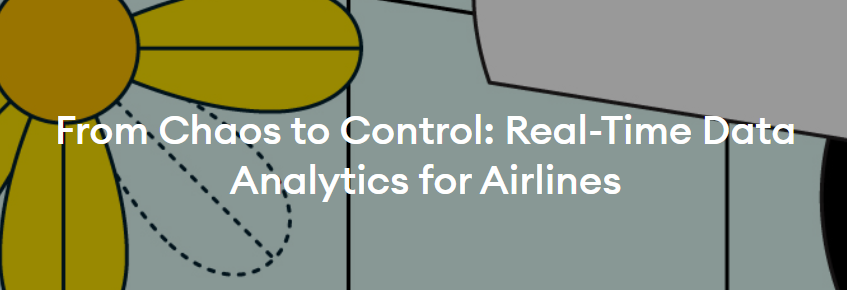
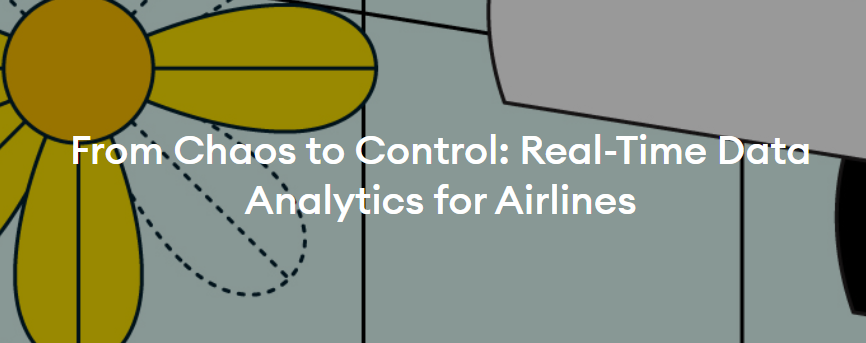
New approach for visuals in benefits section

diff --git a/airplanedashboard/components/FlightLayout.js b/airplanedashboard/components/FlightLayout.js
@@ -660,18 +660,10 @@ const FlightLayout = ({ children }) => {
               
                 {/* Right: Video + Blog Cover */}  
                 <div className={styles.rightContent}>  
-                  <div className={styles.multimediaContainer}>  
-                    {/* YouTube Video */}  
-                    <iframe  
-                      className={styles.youtubeVideo}  
-                      src="https://www.youtube.com/embed/RgreCE1eMkU"  
-                      title="YouTube video"  
-                      allow="accelerometer; autoplay; clipboard-write; encrypted-media; gyroscope; picture-in-picture"  
-                      allowFullScreen  
-                    ></iframe>  
-              
+                  <div className={styles.multimediaContainer}> 
+
                     {/* Blog Cover (Clickable)   */}
-                    
+
                     <div className={styles.blogCoverContainer}>  
                       <a  
                         href="https://www.mongodb.com/company/blog/innovationfrom-chaos-to-control-real-time-data-analytics-for-airlines"  
@@ -687,6 +679,16 @@ const FlightLayout = ({ children }) => {
                         />  
                       </a>  
                     </div>  
+
+                    {/* YouTube Video */}  
+                    <iframe  
+                      className={styles.youtubeVideo}  
+                      src="https://www.youtube.com/embed/RgreCE1eMkU"  
+                      title="YouTube video"  
+                      allow="accelerometer; autoplay; clipboard-write; encrypted-media; gyroscope; picture-in-picture"  
+                      allowFullScreen  
+                    ></iframe>  
+                  
                   </div>  
                 </div>  
               </div>  

diff --git a/airplanedashboard/components/GeneralStyle.module.css b/airplanedashboard/components/GeneralStyle.module.css
@@ -632,7 +632,7 @@
 /* Multimedia container inside the right content */  
 .multimediaContainer {  
   display: flex;
-  align-items: left;
+  align-items: center;
   gap: 10px; /* Add space between video and image */  
   flex-wrap: wrap; /* Allow wrapping for smaller screens */   
   width: 100%;
@@ -645,7 +645,7 @@
 .youtubeVideo {  
   width: 40%; /* Fixed width for square shape */  
   /* height: 250px;   */
-  height: auto;
+  height: 100%;
   border: none;  
   border-radius: 10px; /* Rounded corners for consistency */  
 } 
@@ -666,6 +666,7 @@
   
 .blogCoverImage { 
   width: 100%; /* Full width of its container */ 
+  height: 70%; /* Maintain aspect ratio */
   border-radius: 10px; /* Rounded corners */  
   box-shadow: 0px 4px 6px rgba(0, 0, 0, 0.1); /* Optional shadow for better visual appeal */  
   transition: transform 0.2s ease-in-out; /* Add hover effect */  
